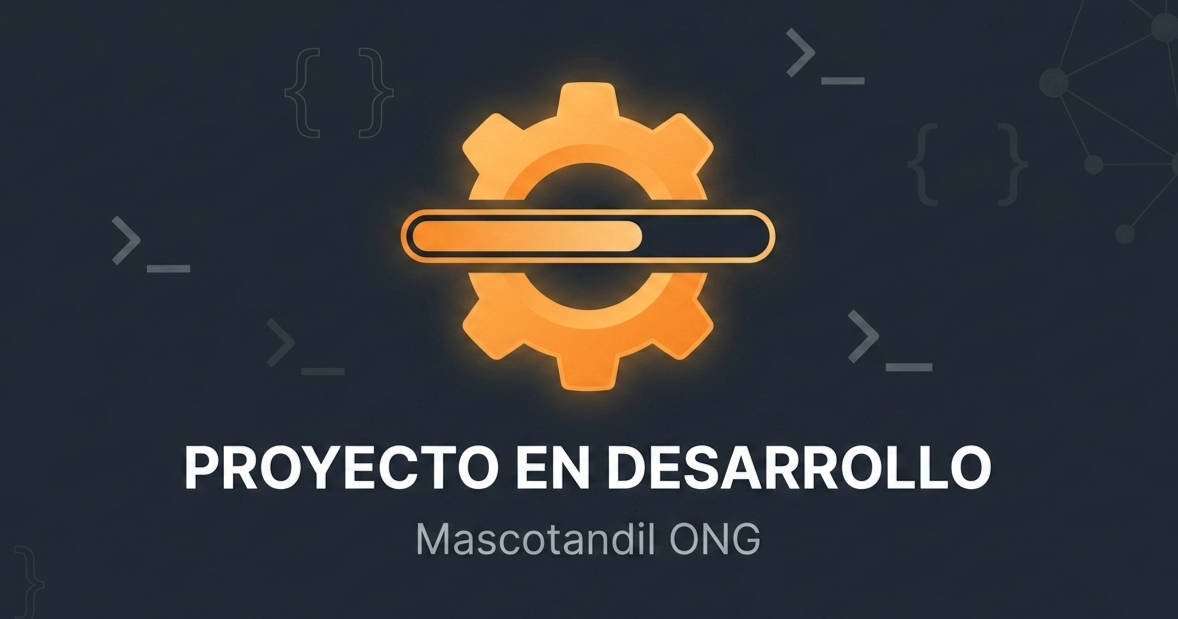
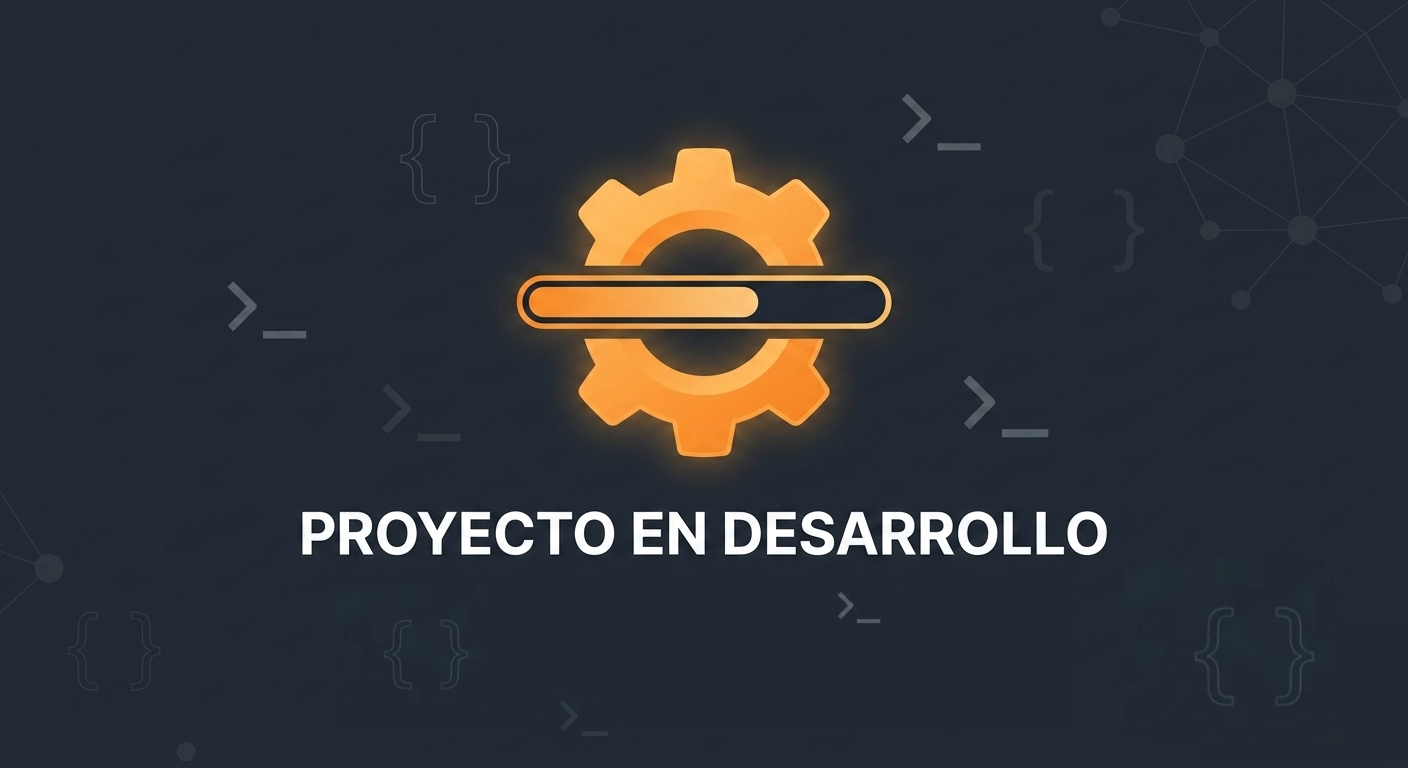
chore: update project details

diff --git a/src/data/projects.ts b/src/data/projects.ts
@@ -63,12 +63,12 @@ export const projects:Project[] = [
         ],
     },
     {
-        slug: "mascotandil-ong",
-        title: "Mascotandil ONG",
+        slug: "gestion-socios",
+        title: "Sistema de Gestión de Socios",
         description:
-            "Plataforma web para la gestión de suscriptores, planes de socios y administración interna de la ONG Mascotandil.",
+            "Plataforma web para la gestión de suscriptores, planes de socios y administración interna.",
         longDescription:
-            "Sistema integral desarrollado para optimizar la administración de la ONG Mascotandil. La plataforma permite la gestión dinámica de planes de suscripción para colaboradores, el control de socios, y cuenta con un panel de administración para agilizar los procesos internos de la organización. Incluye el desarrollo de una API REST robusta y la integración con el frontend controlando políticas de acceso y seguridad.",
+            "Sistema integral desarrollado para optimizar la administración. La plataforma permite la gestión dinámica de planes de suscripción para colaboradores, el control de socios, y cuenta con un panel de administración para agilizar los procesos internos de la organización. Incluye el desarrollo de una API REST robusta y la integración con el frontend controlando políticas de acceso y seguridad.",
         images: [enDesarrollo],
         tags: ["Angular", "Java", "Spring Boot", "JPA", "Hibernate", "SQL", "Tailwind CSS"],
         github: "",

diff --git a/src/components/TechnologiesComponent.tsx b/src/components/TechnologiesComponent.tsx
@@ -16,7 +16,6 @@ const technologies = [
     { name: "TypeScript", level: 85 },
     { name: "Node.js", level: 80 },
     { name: "PostgreSQL", level: 75 },
-    { name: "Python", level: 70 },
     { name: "Docker", level: 65 },
     { name: "React", level: 50 },
     { name: "Git", level: 85 },